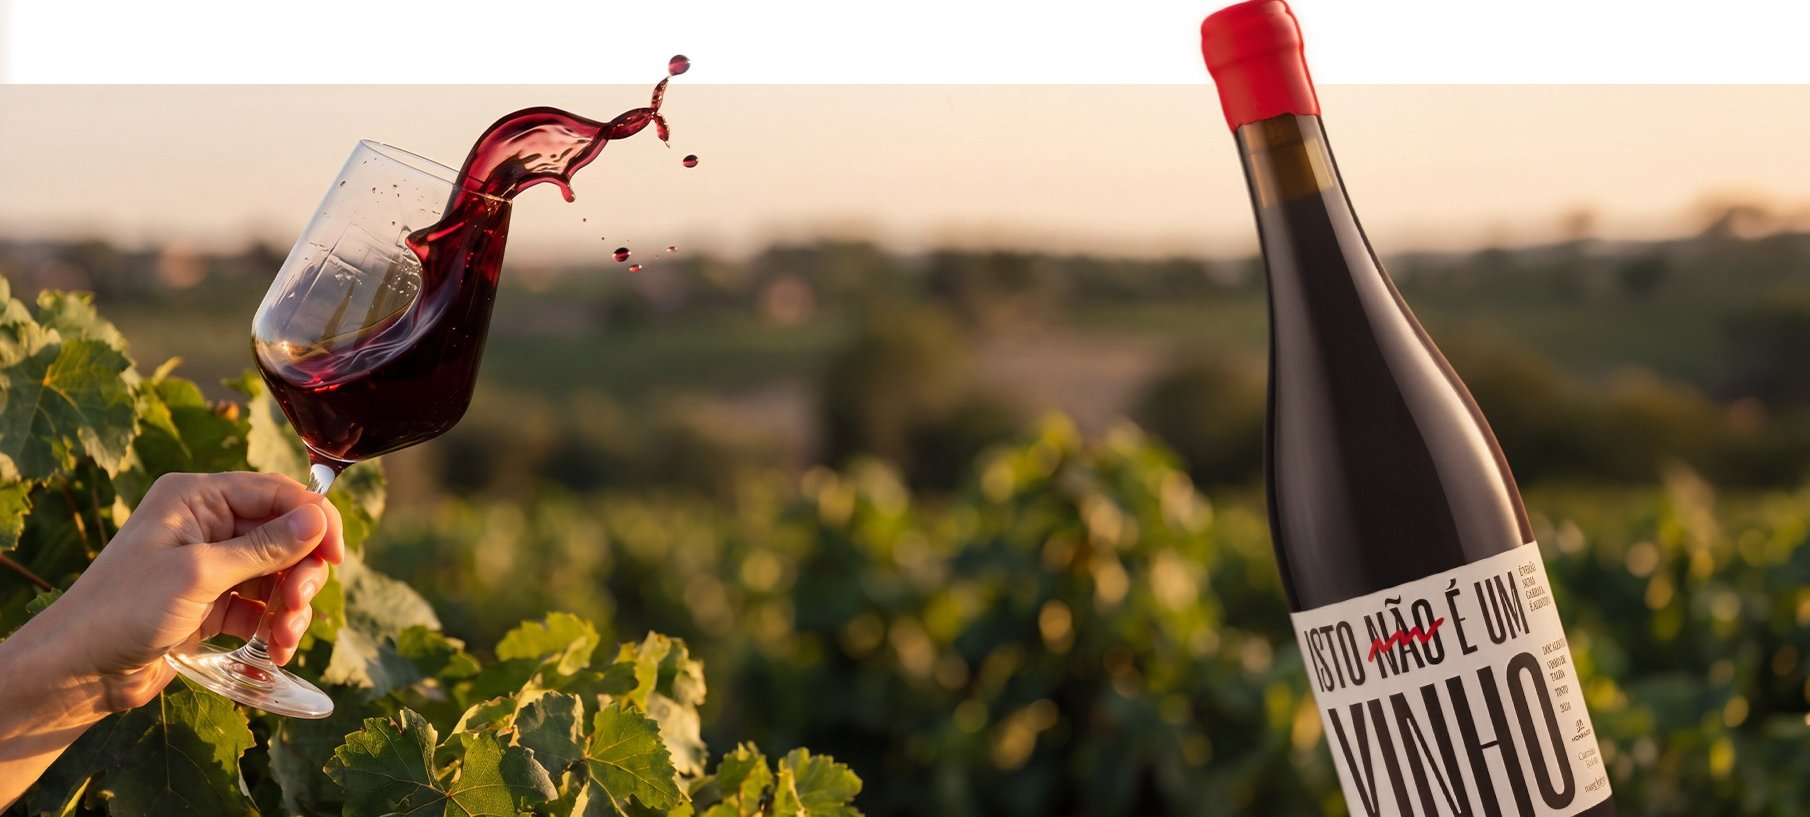
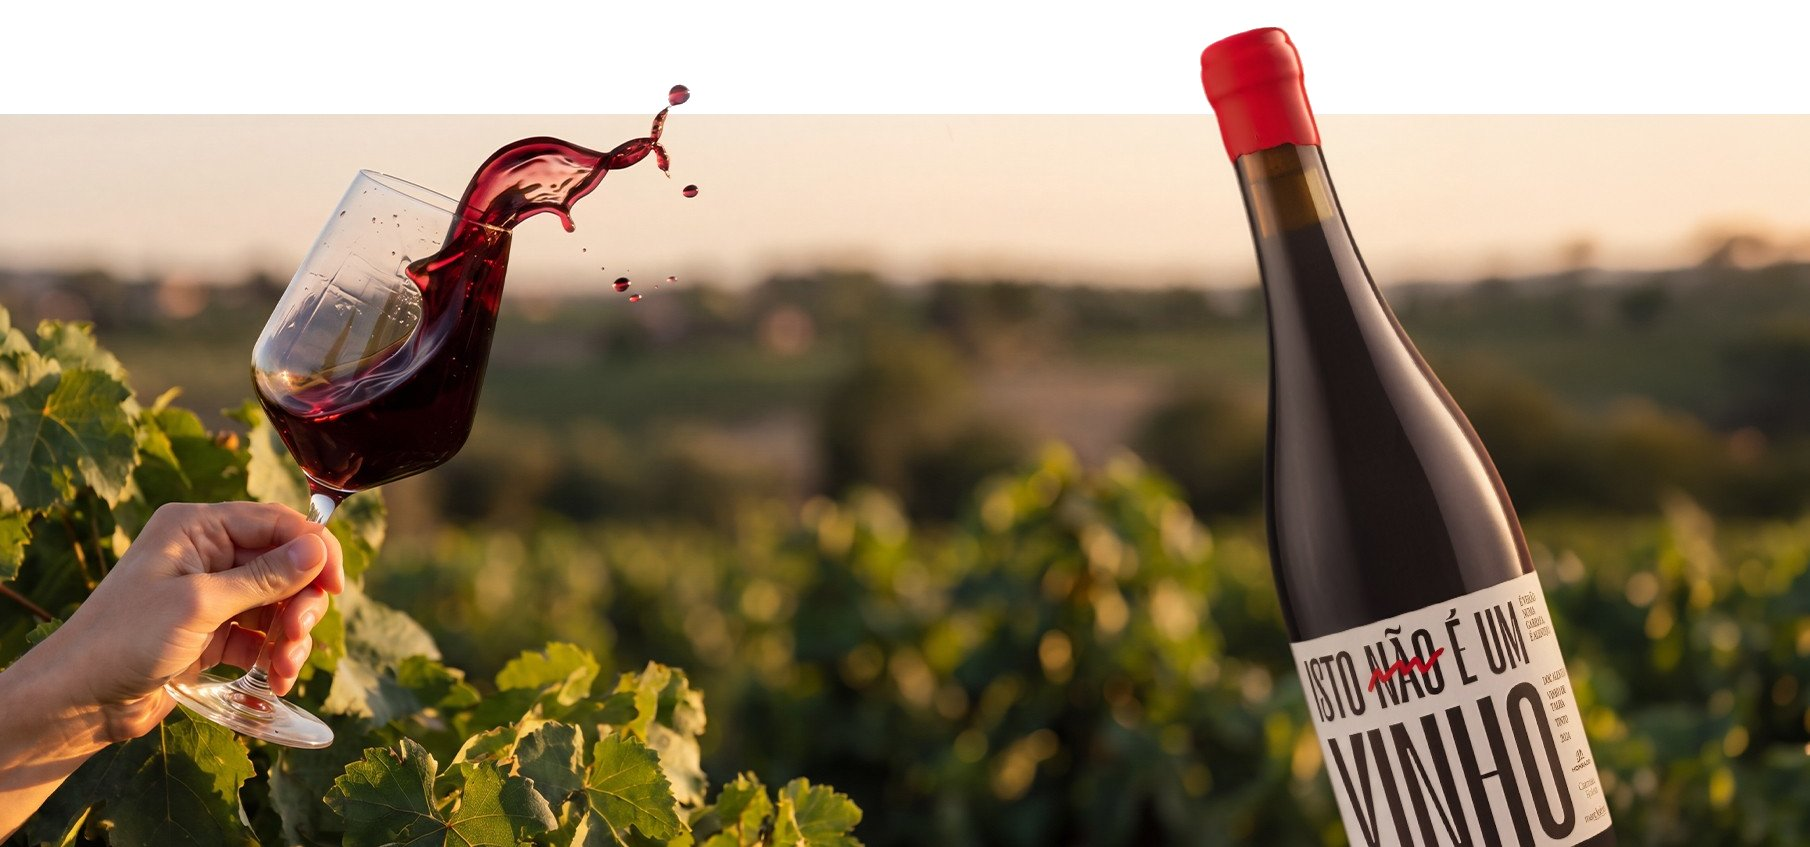
Foto: cápsula da garrafa inteira e faixa de cima em branco puro

diff --git a/index.html b/index.html
@@ -72,7 +72,7 @@
   <!-- Fotografia da garrafa (a faixa branca em cima faz parte da imagem: a garrafa sai do enquadramento) -->
   <div class="wrap">
     <figure class="foto">
-      <img src="assets/img/garrafa.jpg?v=__VERSION__" alt="Garrafa de Isto não é um Vinho e um copo de tinto numa vinha, ao fim da tarde" width="1810" height="817" loading="lazy">
+      <img src="assets/img/garrafa.jpg?v=__VERSION__" alt="Garrafa de Isto não é um Vinho e um copo de tinto numa vinha, ao fim da tarde" width="1810" height="847" loading="lazy">
     </figure>
   </div>
 
